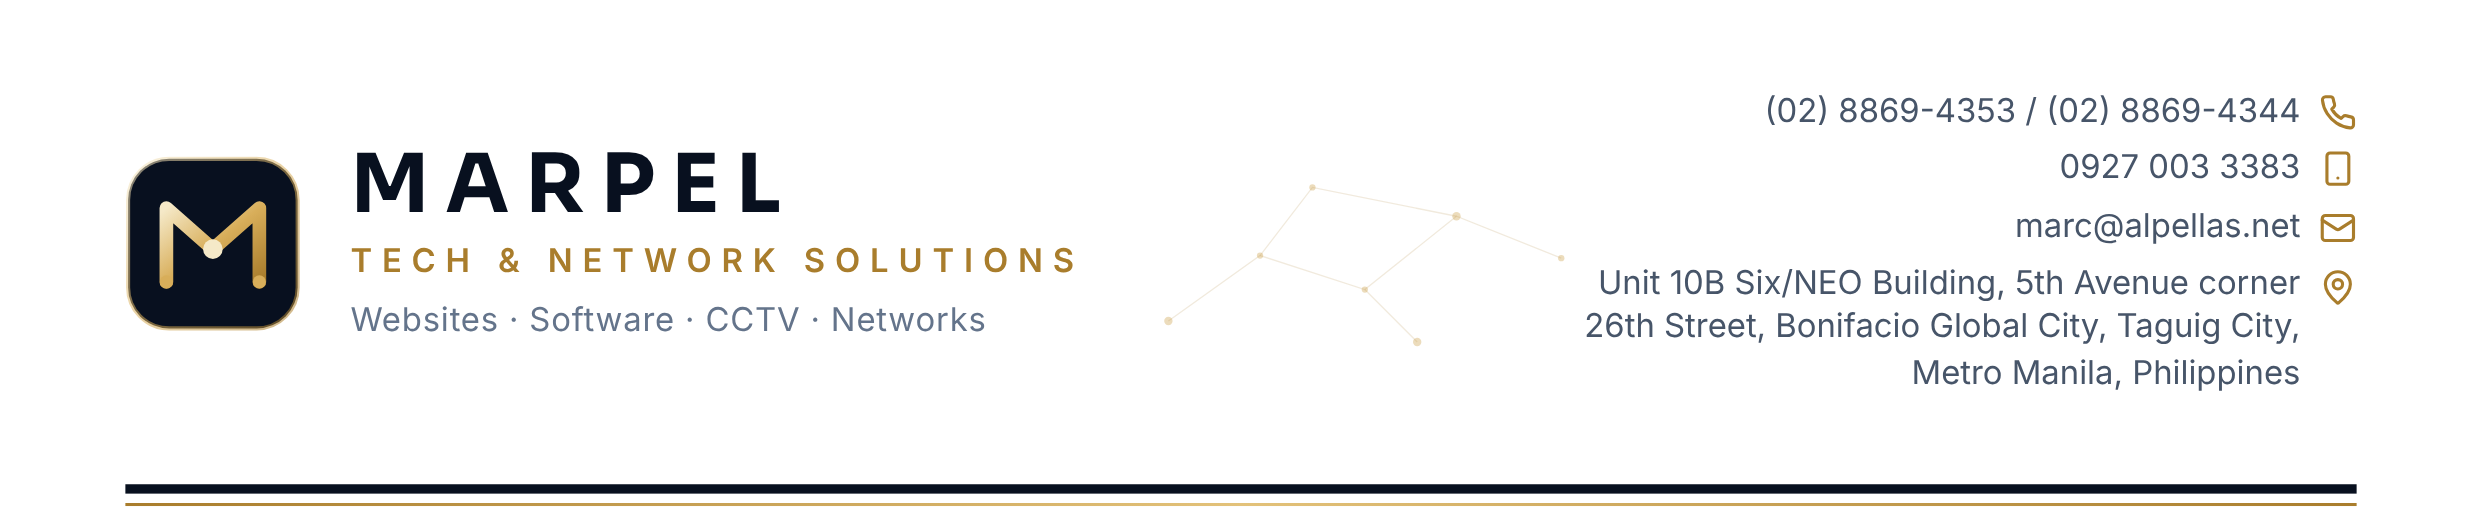
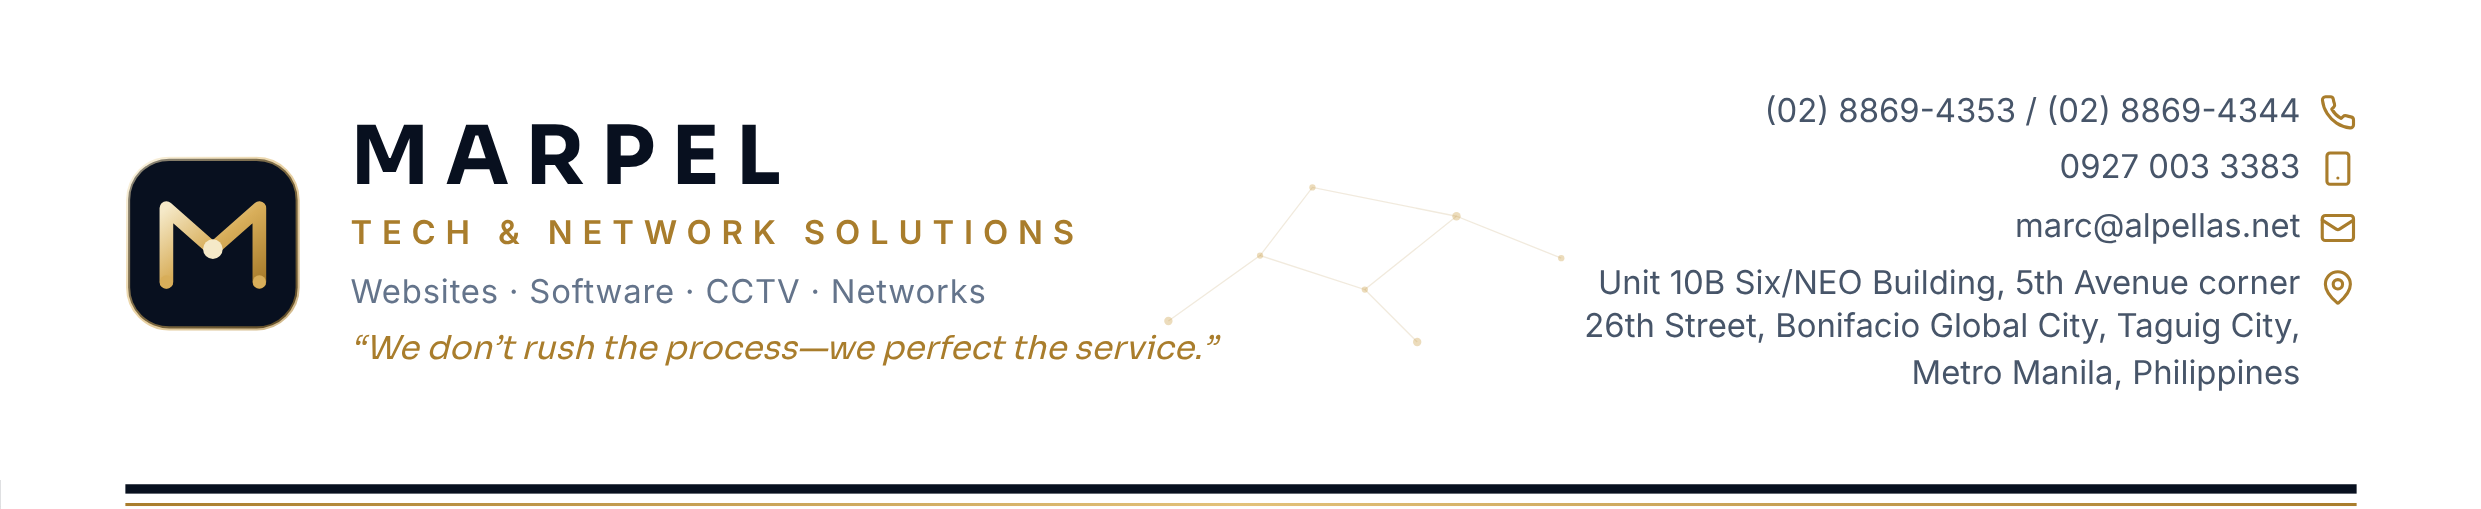
Carry the company promise into the loading screen and letterhead
- Loading screen shows the promise under the logo (gold second half);
  the first visit holds a little longer so it can be read.
- Letterhead (quotation header, Business Settings preview, PNG and Word
  templates) adds the promise under the tagline.

Claude-Session: https://claude.ai/code/session_014XyfiaSPtNGVeEASyN2Z1z

Changed region(s): [[0.1241, 0.2358, 0.4966, 0.7073]]

diff --git a/marpel/src/public/PageLoader.tsx b/marpel/src/public/PageLoader.tsx
@@ -2,6 +2,7 @@ import { useEffect, useRef, useState } from 'react';
 import { useLocation } from 'react-router-dom';
 import { LogoMark } from '../components/brand';
 import { useDB } from '../lib/store';
+import { splitMotto } from './sections';
 import { cx } from '../lib/utils';
 
 type Phase = 'idle' | 'show' | 'hide';
@@ -12,11 +13,14 @@ type Phase = 'idle' | 'show' | 'hide';
  * splash fades away to reveal the new page. Toggle in Admin → Business Settings.
  */
 export default function PageLoader() {
-  const { settings } = useDB();
+  const { settings, content } = useDB();
+  const motto = content.motto?.trim();
+  const [lead, promise] = motto ? splitMotto(motto) : ['', ''];
   const enabled = settings.pageLoader !== false;
   const { pathname } = useLocation();
   const [phase, setPhase] = useState<Phase>(enabled ? 'show' : 'idle');
   const [cycle, setCycle] = useState(0);
+  const [hold, setHold] = useState(1700);
   const first = useRef(true);
   const timers = useRef<number[]>([]);
 
@@ -25,13 +29,16 @@ export default function PageLoader() {
       setPhase('idle');
       return;
     }
-    if (!first.current) setCycle((c) => c + 1);
+    const isFirst = first.current;
+    if (!isFirst) setCycle((c) => c + 1);
     first.current = false;
     timers.current.forEach(clearTimeout);
     const reduced = window.matchMedia('(prefers-reduced-motion: reduce)').matches;
-    const hold = reduced ? 300 : 950;
+    // First visit lingers a little longer so the promise can be read; page changes stay quick.
+    const ms = reduced ? 300 : isFirst ? 1700 : 1050;
+    setHold(ms);
     setPhase('show');
-    timers.current = [window.setTimeout(() => setPhase('hide'), hold), window.setTimeout(() => setPhase('idle'), hold + 450)];
+    timers.current = [window.setTimeout(() => setPhase('hide'), ms), window.setTimeout(() => setPhase('idle'), ms + 450)];
     return () => timers.current.forEach(clearTimeout);
   }, [pathname, enabled]);
 
@@ -54,8 +61,19 @@ export default function PageLoader() {
           </>
         )}
         <span className="mt-6 h-px w-28 overflow-hidden bg-white/10">
-          <span className="block h-full w-full origin-left animate-loader-bar bg-gradient-to-r from-gold-600 via-gold-300 to-gold-600" />
+          <span className="block h-full w-full origin-left animate-loader-bar bg-gradient-to-r from-gold-600 via-gold-300 to-gold-600" style={{ animationDuration: `${hold}ms` }} />
         </span>
+        {motto && (
+          <p className="mt-6 max-w-[88vw] animate-fade-up px-6 text-center font-display text-[15px] italic leading-snug text-slate-300 [animation-delay:250ms] sm:text-base">
+            {lead}
+            {promise && (
+              <>
+                {' '}
+                <span className="text-gold-gradient pr-[0.2em] [-webkit-box-decoration-break:clone] [box-decoration-break:clone]">— {promise}</span>
+              </>
+            )}
+          </p>
+        )}
       </div>
     </div>
   );

diff --git a/marpel/src/components/DocHeader.tsx b/marpel/src/components/DocHeader.tsx
@@ -11,7 +11,7 @@ import { LogoMark } from './brand';
  *  - "dark": navy band with gold accents (digital PDFs, presentations)
  *  - "light": white with navy + gold rules (printer-friendly, saves ink)
  */
-export function DocHeader({ s, variant = 'dark', className }: { s: Settings; variant?: 'dark' | 'light'; className?: string }) {
+export function DocHeader({ s, variant = 'dark', className, motto }: { s: Settings; variant?: 'dark' | 'light'; className?: string; motto?: string }) {
   const dark = variant === 'dark';
   const [first, ...rest] = s.businessName.split(' ');
   const showTin = s.tin && !/^[0\s-]+$/.test(s.tin);
@@ -47,6 +47,7 @@ export function DocHeader({ s, variant = 'dark', className }: { s: Settings; var
             <p className={cx('font-display text-[26px] font-bold tracking-[0.2em]', dark ? 'text-white' : 'text-[#08101f]')}>{first?.toUpperCase()}</p>
             <p className={cx('mt-1.5 text-[10.5px] font-semibold uppercase tracking-[0.3em]', dark ? 'text-[#e3c27a]' : 'text-[#a97d2c]')}>{rest.join(' ')}</p>
             <p className={cx('mt-2 text-[10.5px] tracking-wide', dark ? 'text-slate-400' : 'text-slate-500')}>{s.tagline}</p>
+            {motto && <p className={cx('mt-2 font-display text-[10.5px] italic', dark ? 'text-[#e3c27a]' : 'text-[#a97d2c]')}>“{motto}”</p>}
           </div>
         </div>
         <div className={cx('space-y-1 text-right text-[10.5px] leading-snug', dark ? 'text-slate-300' : 'text-slate-600')}>

diff --git a/marpel/src/admin/Settings.tsx b/marpel/src/admin/Settings.tsx
@@ -114,7 +114,7 @@ export default function Settings() {
               <CardHeader title={v === 'dark' ? 'Dark: navy and gold' : 'Light: printer-friendly'} subtitle={v === 'dark' ? 'Used on quotations and digital PDFs' : 'White background that saves ink on office printers'} />
               <div className="overflow-x-auto bg-slate-200/10 p-4 sm:p-6">
                 <div id={`letterhead-${v}`} className="mx-auto w-[794px] bg-white shadow-xl">
-                  <DocHeader s={s} variant={v} />
+                  <DocHeader s={s} variant={v} motto={db.content.motto} />
                   <div className="h-24 bg-white" />
                 </div>
               </div>

diff --git a/marpel/src/admin/QuotationDoc.tsx b/marpel/src/admin/QuotationDoc.tsx
@@ -11,7 +11,7 @@ export function QuotationDoc({ db, q }: { db: DB; q: Quotation }) {
   const sym = s.currencySymbol;
   return (
     <div className="print-area mx-auto w-full max-w-[820px] bg-white text-[13px] text-slate-800 shadow-2xl">
-      <DocHeader s={s} variant="dark" />
+      <DocHeader s={s} variant="dark" motto={db.content.motto} />
       <div className="flex items-end justify-between gap-6 px-10 pt-7">
         <p className="font-display text-[22px] font-semibold tracking-[0.24em] text-[#08101f]">QUOTATION</p>
         <p className="font-mono text-sm text-slate-600">{q.number}</p>
